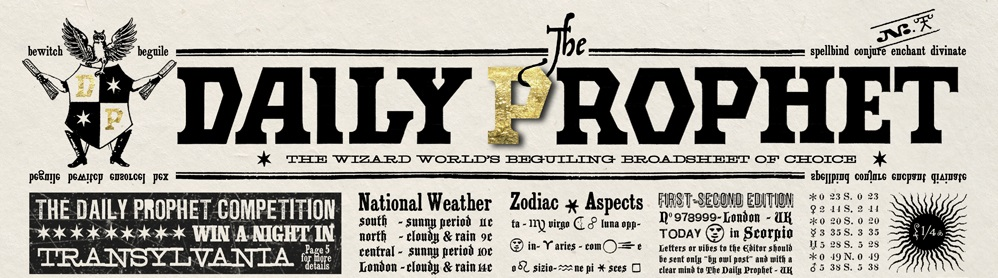
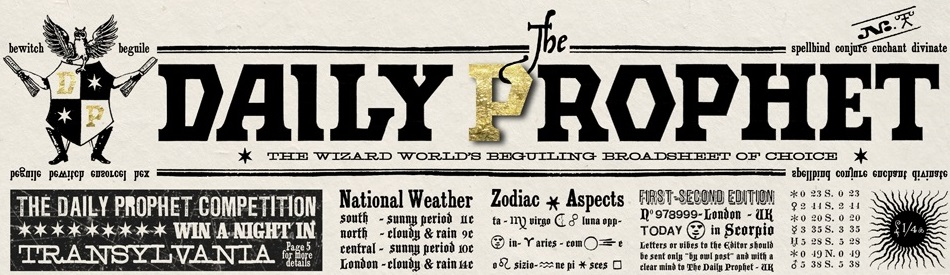
modify headline

diff --git a/index.html b/index.html
@@ -76,7 +76,7 @@
       var context = canvas.getContext('2d');
       var x = 0;
       var y = 0;
-      var width = 998;
+      var width = 940;
       var height = 278;
       var imageObj = new Image();
 
